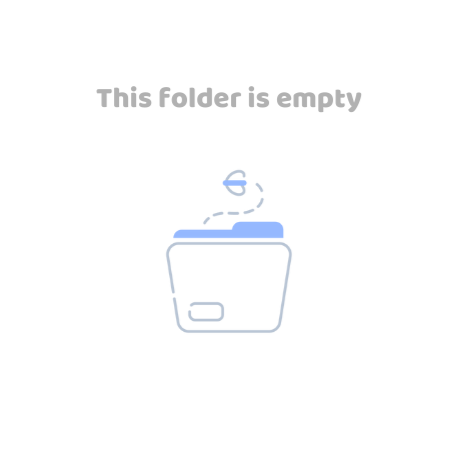
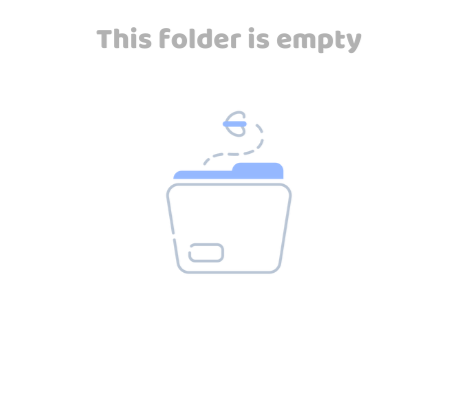
Overall style

Changed region(s): [[0.3377, 0.272, 0.6447, 0.7557], [0.2149, 0.0605, 0.7982, 0.1511], [0.2149, 0.1814, 0.7982, 0.2418]]

diff --git a/frontend/CSS/sidebar.css b/frontend/CSS/sidebar.css
@@ -1,11 +1,13 @@
 .sidebar {
     width: 10em;
     height: 25em;
+    padding: 5px 3px;
+    border-radius: 10px;
+    box-shadow: 0px 4px 4px rgba(0, 0, 0, .5);
     background-color: white;
     position: sticky;
     left: 1.5em;
     top: calc(50% - 10em);
-    padding: 5px 3px;
 }
 
 .sidebar > ul {

diff --git a/frontend/CSS/folder.css b/frontend/CSS/folder.css
@@ -2,6 +2,8 @@
     background-color: #9bd4e4;
     width: 100%;
     height: 5em;
+    border-radius: 0 0 7px 7px;
+    box-shadow: 0 2px 2px rgba(0, 0, 0, .4);
     display: flex;
     align-items: center;
     justify-content: center;

diff --git a/frontend/CSS/linkArea.css b/frontend/CSS/linkArea.css
@@ -1,6 +1,8 @@
 .add-link-area{ 
     width: 18em;
     height: 25em;
+    border-radius: 10px;
+    box-shadow: 0px 4px 4px rgba(0, 0, 0, .5);
     background-color: white;
     position: relative;
     position: sticky;

diff --git a/frontend/CSS/page.css b/frontend/CSS/page.css
@@ -41,3 +41,7 @@ main {
     flex-wrap: wrap;
     width: 50em;
 }
+
+.backgroundImage {
+    width: 60%;
+}

diff --git a/backend/Pages/Folders.php b/backend/Pages/Folders.php
@@ -19,7 +19,7 @@ if (isset($_GET['folder'])) {
             $card->renderCard();
         } 
     }
-    if(!$check) echo "<img src='./../assets/images/FolderIsEmpty.png' alt='Empty folder icon'>";
+    if(!$check) echo "<img class='backgroundImage' src='./../assets/images/FolderIsEmpty.png' alt='Empty folder icon'>";
 } else {
     if (isset($_SESSION['foldersNames'])) {
         foreach ($_SESSION['foldersNames'] as $name => $data) {
@@ -38,6 +38,6 @@ if (isset($_GET['folder'])) {
             echo "</form>";
         }
     } else {
-        echo "<img src='./../assets/images/NoLinkFound.png' alt='No link found'>";
+        echo "<img class='backgroundImage' src='./../assets/images/NoLinkFound.png' alt='No link found'>";
     }
 }

diff --git a/backend/Pages/HeartedLinks.php b/backend/Pages/HeartedLinks.php
@@ -9,8 +9,8 @@
             }
         }
         if(!$check){
-            echo "<img src='./../assets/images/NoLinkFound.png' alt='No link found'>";
+            echo "<img class='backgroundImage' src='./../assets/images/NoLinkFound.png' alt='No link found'>";
         }
     } else {
-        echo "<img src='./../assets/images/NoLink.png' alt='There is no link added'>";
+        echo "<img class='backgroundImage' src='./../assets/images/NoLink.png' alt='There is no link added'>";
     }

diff --git a/backend/Pages/Main.php b/backend/Pages/Main.php
@@ -1,9 +1,9 @@
 <?php
-    if (isset($_SESSION['links'])) {
+    if (isset($_SESSION['links']) AND count($_SESSION['links']) > 0) {
         foreach ($_SESSION['links'] as $linkData) {
             $card = new Card($linkData);
             $card->renderCard();
         }
     } else {
-        echo "<img src='./../assets/images/noLink.png' alt='There is no link'>";
+        echo "<img class='backgroundImage' src='./../assets/images/noLink.png' alt='There is no link'>";
     }   
